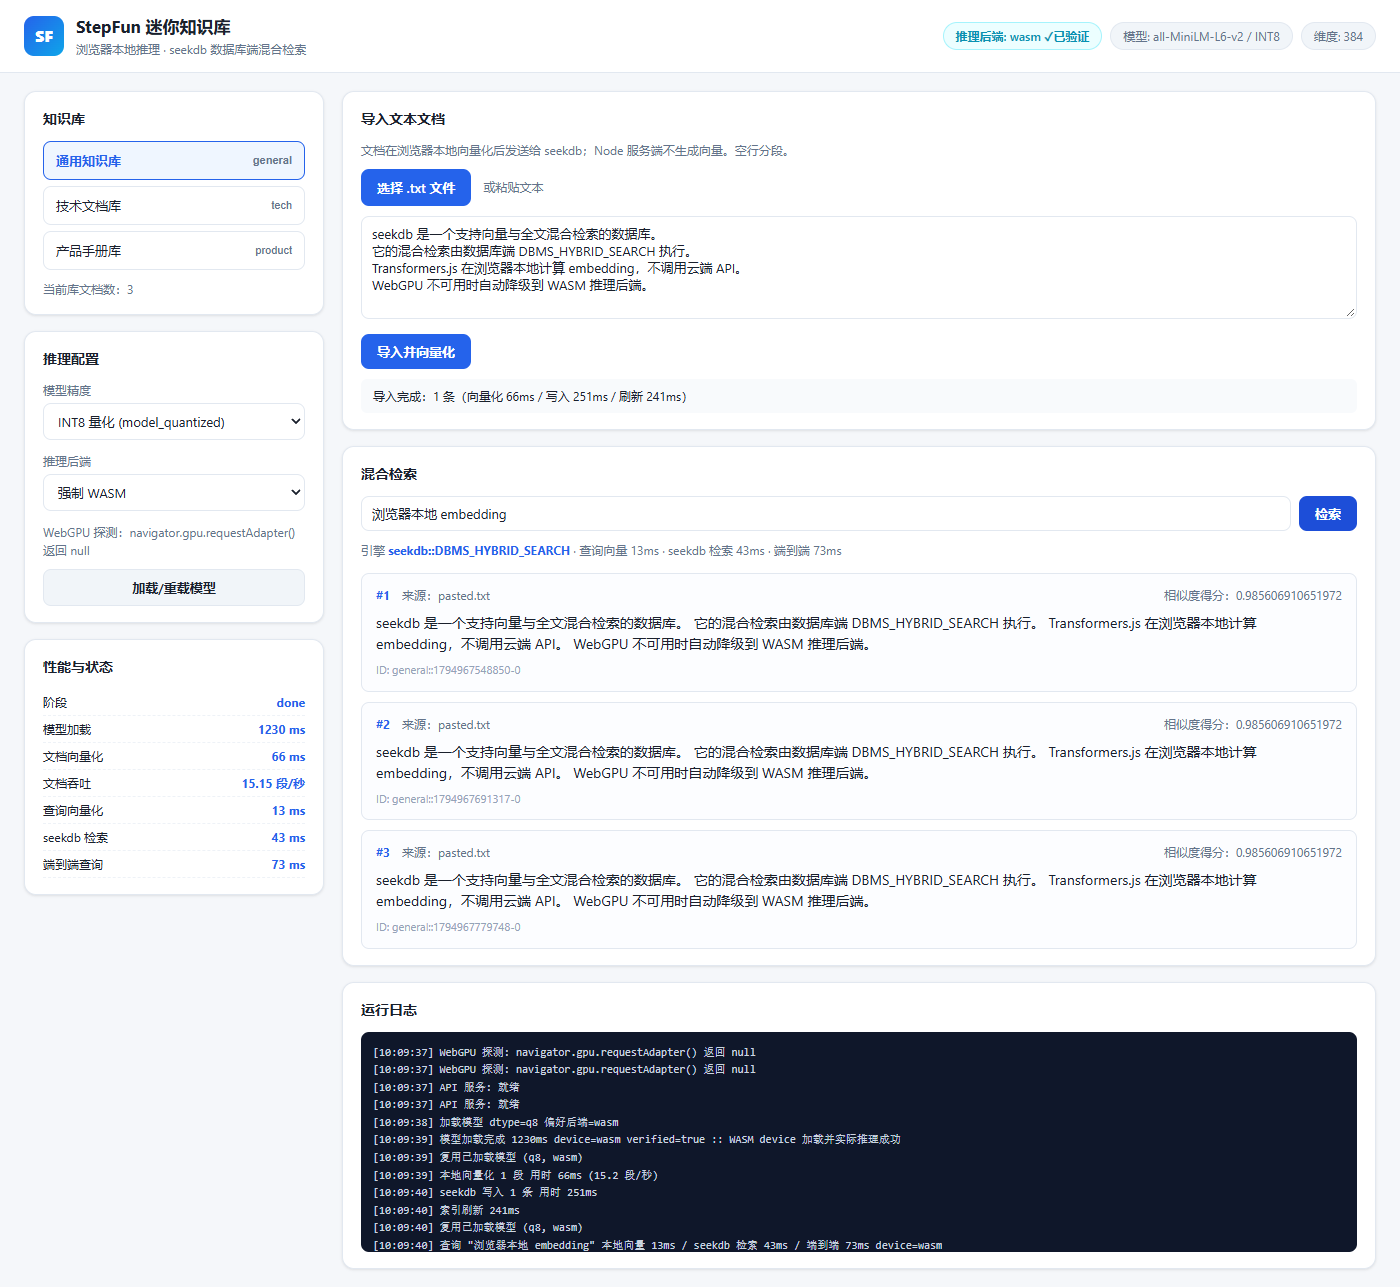
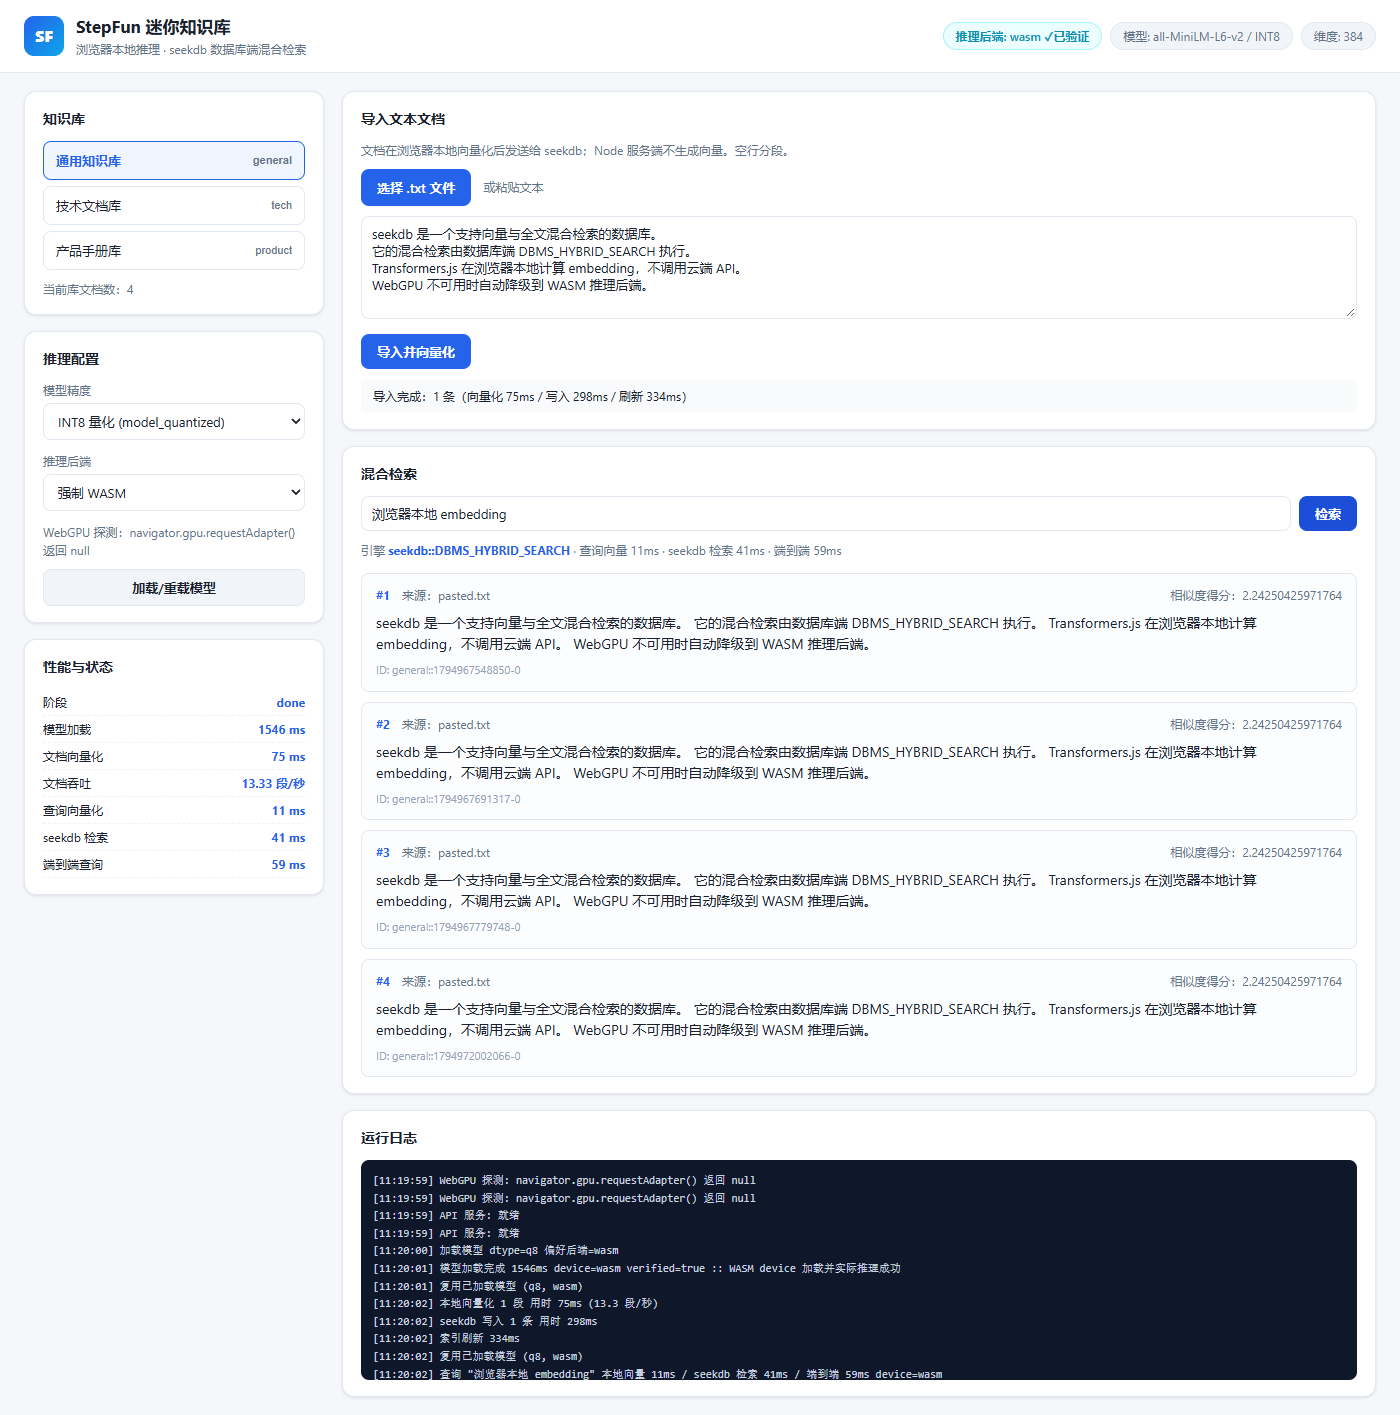
docs(stepfun): add official submission checklist and fix verification issues

diff --git a/stepfun/SUBMISSION.md b/stepfun/SUBMISSION.md
@@ -1,0 +1,118 @@
+# SUBMISSION.md — 提交规范核对与材料清单
+
+> 本文件记录对官方赛题要求、提交方式与目录规范的逐项核对结果，以及本项目最终提交材料清单。
+> 所有结论均来自官方公开文档与本机 git 实测，不推测、不虚构。
+
+## 1. 官方依据（原文链接）
+
+| 文档 | 地址 |
+|---|---|
+| 阶跃星辰赛题（本赛道） | https://oceanbase.yuque.com/org-wiki-obtech-vh7w9r/hc3pio/kw9wfx4bu9pyvat9 |
+| GitHub 在大赛中的使用说明 | https://oceanbase.yuque.com/org-wiki-obtech-vh7w9r/hc3pio/qs1povt8zbza6hts |
+| 比赛仓库地址 | https://oceanbase.yuque.com/org-wiki-obtech-vh7w9r/hc3pio/brxxufkegusa86hl |
+| 官方代码仓库 | https://github.com/oceanbase/powercontext |
+| 官方基础分支 | `2026-competition-ecosystem`，HEAD `d647275c308e09b7b623f322a26f5c4e85734fb0` |
+
+赛题原文关键要求（逐字引用）：
+
+> 注意：为方便判题，请基于 https://github.com/oceanbase/powercontext/tree/2026-competition-ecosystem ，在测评平台提交时的分支/commit hash 基于此分支进行开发，相关项目资产放入对应 stepfun 目录中。在完成私有 repo 导入后，你已经获得一个同名的分支。
+
+> 提交产物：可运行的 Web 应用、完整源码和一页技术说明
+
+《GitHub 在大赛中的使用说明》关键要求：
+
+> 一定要使用私有仓库进行测试。
+> 首先你要有一个自己的 GitHub 账号……在网站右上角点击 "Import Repository"……填写导入表单……点击 "Begin import" 按钮，开始导入仓库……
+> 生成token……在参赛信息里面填写好user:token的地址……仓库确认之后，开始提交测试。
+
+《比赛仓库地址》中阶跃星辰一行：仓库 `oceanbase/powercontext`，分支 `2026-competition-ecosystem`，文件夹 `stepfun`。
+
+## 2. 提交方式结论
+
+| 核对项 | 结论 |
+|---|---|
+| 是否需要向官方仓库创建 GitHub Pull Request | **否**。官方说明要求导入自己的**私有仓库**，生成 token 后在**测评平台提交分支/commit hash**；未要求向 `oceanbase/powercontext` 提 PR。本交付严格遵守：无 remote、无 push、无 PR。 |
+| 提交目标形态 | 私有仓库导入官方仓库 → 在 `2026-competition-ecosystem` 基础上开发 → 提交分支名 / commit hash。 |
+| 资产放置位置 | 官方分支 `stepfun/` 目录（本项目顶层目录即与该目录一一对应）。 |
+| 是否需要演示视频 | **未要求**。官方「四、提交材料」仅列 4.1 可运行 Web 应用、4.2 完整源码、4.3 一页技术说明。 |
+| 是否需要截图 | **未作为硬性附件要求**。本项目仍附真实运行截图 `evidence/browser/app-wasm.png` 作为佐证。 |
+| 是否需要性能报告 | 一页技术说明中**必须**包含关键性能对比结果（3.2 与 4.3）；本项目另有原始日志 `benchmark/results.json`、`evidence/benchmark/*.json` 作为可核验附件。 |
+
+## 3. Git 基线核验（关键）
+
+本地仓库已把作品提交接到官方基础提交之上，满足「commit hash 基于此分支进行开发」：
+
+```
+d647275  chore: initialize 2026 competition ecosystem directories   ← 官方 2026-competition-ecosystem HEAD
+9f9d38c  feat(stepfun): complete mini knowledge base ...            ← 作品主提交
+7a36999  docs(stepfun): record commit history reference ...         ← 文档 SHA 回填
+```
+
+核验命令与期望结果：
+
+```bash
+cd D:/OceanBase_WorkBuddy/StepFun_2026
+git merge-base --is-ancestor d647275c308e09b7b623f322a26f5c4e85734fb0 HEAD && echo BASE_OK
+git log --oneline -4
+git remote -v        # 期望：无输出
+```
+
+官方占位文件 `dify/`、`gaode/`、`minimax/`、`qoder/` 均原样保留（含 `.gitkeep`），**未修改 Codex / MiniMax 或其他赛道资产**；`stepfun/.gitkeep` 已被真实作品内容替代。
+
+## 4. 官方必做要求逐项对照
+
+| 官方条目 | 本项目实现 | 证据 | 状态 |
+|---|---|---|---|
+| 2.1 导入文本文档 → 本地向量化 → 写入 seekdb → 混合检索 → 排序结果与原文 | React UI 导入/进度/结果/原文来源；`embedding.ts` 本地编码；`db.js` 写入；`hybridSearch()` 检索 | `frontend/src/App.tsx`、`evidence/browser/browser-test.log`、`evidence/browser/app-wasm.png` | 通过 |
+| 2.2-1 浏览器本地执行 embedding（文档+查询） | Transformers.js 4.3.2，模型与 ORT WASM 均本地加载，`env.allowRemoteModels=false` | `frontend/src/embedding.ts`、`evidence/browser/browser-test.log`（`EXTERNAL_REQUEST_COUNT 0`） | 通过 |
+| 2.2-2 开源模型，注明来源与版本 | `Xenova/all-MiniLM-L6-v2`，Apache-2.0，384 维，Repo SHA `751bff37…` | `TECHNICAL_OVERVIEW.md` §2、`evidence/stage1/model_info.log` | 通过 |
+| 2.2-3 INT8/FP16 量化，体积/压缩比/质量变化 | INT8(q8) vs FP32：90,387,606 B → 22,972,370 B，压缩比 **3.935×**（−74.6%）；Recall@5 0.7083→0.6806，nDCG@5 0.7596→0.7428 如实记录 | `TECHNICAL_OVERVIEW.md` §2/§5、`benchmark/results.json` | 通过 |
+| 2.2-4 WebGPU 优先、显式配置、不支持自动降级 WASM、界面提示 | `probeWebGPU()` 真实 `requestAdapter()`；推理成功才标记已验证；UI 状态栏显示后端；本机 WebGPU 不可用，如实显示 wasm | `frontend/src/embedding.ts`、`frontend/src/App.tsx`、`TEST_REPORT.md` 未通过项 | 通过（降级路径实测；WebGPU 环境受限如实记录） |
+| 2.3-1 seekdb-js 接入，存向量/原文/ID/元数据 | seekdb 1.4.0 Embedded；`VectorIndexConfig`(384, cosine, `embeddingFunction:null`) + `FulltextIndexConfig('ik', smart)` | `backend/src/db.js`、`TECHNICAL_OVERVIEW.md` §4 | 通过 |
+| 2.3-2 混合检索由 seekdb 完成，不客户端拼接 | `collection.hybridSearch()` → `seekdb::DBMS_HYBRID_SEARCH` | `evidence/stage2_api_smoke.log`、`evidence/browser/browser-test.log` | 通过 |
+| 2.3-3 写入与索引刷新，新文档可检索 | 增量导入后 `refresh_index()` | `evidence/stage2_api_smoke.log`、`evidence/kb-isolation.log` | 通过 |
+| 2.3-4 增量写入、集合/会话状态正确 | 知识库 A/B 隔离 + 切换恢复 | `tests/kb-isolation.test.mjs`、`evidence/kb-isolation.log`（11/11） | 通过 |
+| 2.4 基础性能优化与优化前后实测 | 三配置基准（FP32/WASM、INT8/WASM、INT8 降级），5 次重复中位数，分阶段计时 | `tests/run-benchmark.mjs`、`benchmark/results.json`、`evidence/benchmark/*.json` | 通过 |
+| 2.5 Chrome/Edge 可运行 | Chrome（Playwright 1.65.1 headless）实测；Edge 已安装 | `evidence/browser/browser-test.log` | 通过 |
+| 2.5 禁止云端推理 API / 服务端预计算回放 | 外部请求数 0；Node 只接收浏览器算好的向量 | `evidence/browser/browser-test.log`、`frontend/src/api.ts` | 通过 |
+| 2.5 存储与检索只用 seekdb | 无其他数据库/客户端内存检索 | `backend/src/db.js` | 通过 |
+| 3.2 固定条件、压缩比公式、Recall@K/nDCG@K、分阶段计时、首次/预热区分、重复取中位数、降级路径验证 | 全部按要求记录，含未改善/下降项 | `TECHNICAL_OVERVIEW.md` §5、`benchmark/results.json` | 通过 |
+| 4.1 可运行 Web 应用 + 启动说明 + 后端显示 | `README.md` §6/§7；UI 显示推理后端 | `README.md`、`evidence/browser/app-wasm.png` | 通过 |
+| 4.2 完整源码、依赖配置、模型获取/量化步骤、表结构与索引配置、复现数据 | 全部随仓库提供 | `README.md` §3–§5、`TECHNICAL_OVERVIEW.md` §4、`benchmark/dataset.mjs` | 通过 |
+| 4.3 一页技术说明（模型量化/端侧运行/seekdb/状态与优化） | 单文件覆盖四方面 | `TECHNICAL_OVERVIEW.md` | 通过 |
+
+## 5. 最终提交材料清单
+
+**必交（官方 4.1–4.3）**
+
+- `stepfun/frontend/`、`stepfun/backend/`、`stepfun/package.json` 等：可运行 Web 应用与完整源码
+- `stepfun/frontend/public/models/`：本地 ONNX 模型（FP32 + INT8），clone 后离线可运行
+- `stepfun/frontend/public/ort/`：本地 ONNX Runtime WASM，避免 CDN（满足"禁止云端"）
+- `stepfun/README.md`：依赖、安装、seekdb 启动、完整启动、测试、重置、已知限制
+- `stepfun/TECHNICAL_OVERVIEW.md`：一页技术说明
+- `stepfun/SUBMISSION.md`：本核对清单
+
+**附加证据（官方允许"技术说明之外可附测试日志和详细复现步骤"）**
+
+- `stepfun/TEST_REPORT.md`：10 项测试的命令/退出码/环境/结果，含未通过项
+- `stepfun/PROGRESS.md`：10 阶段真实进度
+- `stepfun/evidence/`：stage1 环境/模型/seekdb 探测、API 冒烟、浏览器测试、隔离测试、复现检查日志，及 `browser/app-wasm.png` 真实截图
+- `stepfun/evidence/benchmark/*.json` + `stepfun/benchmark/results.json`：原始性能数据与中位数
+- `stepfun/backend/evidence/`：服务端 seekdb 操作与心跳日志
+- `stepfun/scripts/verify-fresh.mjs`：干净环境复现检查（30/30）
+
+## 6. 已知限制（如实，不影响提交完整性）
+
+- WebGPU 在本机 headless Chrome 中 `navigator.gpu.requestAdapter()` 返回 null，真实 WebGPU 路径未能验证；应用已实现并实测 WASM 降级，UI 如实显示后端。
+- seekdb 原生 addon 需动态 import、日志写文件、低频心跳保持稳定（已固化在代码中，见 README §10）。
+- INT8 的 Recall@5 略低于 FP32，已如实报告，未声称质量提升。
+
+## 7. 提交前自检
+
+```bash
+cd D:/OceanBase_WorkBuddy/StepFun_2026
+git status --short --branch     # 期望：工作区干净
+node stepfun/scripts/verify-fresh.mjs   # 期望：30/30 PASS
+```
+
+**本交付未执行任何远程仓库推送，未创建任何 Pull Request。**

diff --git a/stepfun/PROGRESS.md b/stepfun/PROGRESS.md
@@ -247,3 +247,28 @@ SUMMARY pass=6 fail=0
 ### 当前 Git 提交
 - 分支：`competition/stepfun-submission`（本地）
 - Commit SHA：见 `git log -1 --format=%H`（本交付含 2 个提交：主提交 + 文档 SHA 回填）
+
+---
+
+## 阶段 11：官方提交规范核对与 Git 基线修复
+
+**状态：已完成**  
+**时间：2026-11-18 11:12 – 11:25 GMT+8**
+
+### 官方要求核对结果（真实查阅）
+- 赛题文档（语雀「阶跃星辰」）：要求基于 `powercontext` 的 `2026-competition-ecosystem` 分支开发，**在测评平台提交分支/commit hash**，资产放入对应 `stepfun/` 目录；提交产物为「可运行的 Web 应用、完整源码和一页技术说明」，总分 20。
+- 《GitHub 在大赛中的使用说明》：使用自己的**私有仓库 Import Repository** 导入官方仓库，生成 token 填入参赛信息，再在测评平台提交测试；**未要求向官方仓库提 Pull Request**。
+- 《比赛仓库地址》：阶跃星辰对应 `powercontext` / `2026-competition-ecosystem` / `stepfun` 目录。
+- 官方分支根目录实际只有 `dify/ gaode/ minimax/ qoder/ stepfun/` 五个仅含 `.gitkeep` 的占位目录，HEAD=`d647275c308e09b7b623f322a26f5c4e85734fb0`。
+- 附件：演示视频**未要求**；截图/性能报告未列为硬性附件，但技术说明必须含关键性能对比结果。本项目已附真实截图与原始性能日志。
+
+### 发现的阻塞问题与修复
+- **问题**：此前本地仓库 `git init` 后首个提交是根提交（`0c1d402` 无父提交），官方基础提交 `d647275` 不在历史中，不满足「commit hash 基于此分支开发」。
+- **修复**：从只读参考克隆 `D:/OceanBase_WorkBuddy/_reference_powercontext` 抓取官方提交对象（未联网推送），以 `d647275` 为基线 cherry-pick 两个作品提交，得到新链：
+  `d647275 → 9f9d38c（主提交）→ 7a36999（文档）`；删除 `stepfun/.gitkeep` 占位并加入 `SUBMISSION.md`。
+- **验证**：`git merge-base --is-ancestor d647275 HEAD` 返回 0；`git remote -v` 无输出；未创建 PR、未推送。
+- 官方其他赛道占位目录 `dify/ gaode/ minimax/ qoder/` 原样保留，未修改 MiniMax/Codex 既有资产。
+
+### 本阶段新增文件
+- `SUBMISSION.md`：官方要求逐项对照、提交方式结论、git 基线核验、最终材料清单、提交前自检。
+

diff --git a/stepfun/TEST_REPORT.md b/stepfun/TEST_REPORT.md
@@ -16,6 +16,14 @@
 | 8 | 三配置性能与质量 | `node tests/run-benchmark.mjs` | 0 | A/B/C 全部跑通，5 次中位数 | `benchmark/results.json`、`evidence/benchmark/*.json` |
 | 9 | 干净环境复现检查 | `node scripts/verify-fresh.mjs` | 0 | 30/30 PASS | `evidence/verify-fresh.log` |
 | 10 | 前端构建 | `npm run build` (frontend) | 0 | TS 无错误，Vite 构建成功 | 终端输出（见 PROGRESS.md） |
+| 11 | 官方提交规范与 git 基线 | 查阅官方语雀文档；`git merge-base --is-ancestor d647275c… HEAD` | 0 | 无需 PR；提交需基于官方分支；本地历史已接入 `d647275` | `SUBMISSION.md` §1–§3、`PROGRESS.md` 阶段 11 |
+| 12 | 浏览器测试复测（代理修复后） | `node tests/browser-embedding.spec.mjs` | 0 | 6/6 PASS；导入完成（向量化 75ms/写入 298ms/刷新 334ms）；检索 4 条；外部请求 0 | `evidence/browser/browser-test.log`、`evidence/browser/app-wasm.png` |
+
+## 提交前修复记录
+
+- **Vite `/api` 代理失效**：git 分支切换期间 `vite.config.ts` 被临时删除又重建，正在运行的 Vite 未重载代理配置，`/api/*` 返回 index.html，浏览器导入报 `Unexpected end of JSON input`。重启前端开发服务器后代理恢复（`curl /api/kb/general/count` 返回 JSON），浏览器测试 6/6 通过。README §10 增加排查说明。
+- **测试脚本超时参数**：`tests/browser-embedding.spec.mjs` 两处 `page.waitForFunction(fn, {timeout})` 把 options 误传成 arg，实际使用默认 30s；已改为 `page.waitForFunction(fn, null, {timeout:180000})`，与 `run-benchmark.mjs` 写法一致。
+- 复测同批执行：`kb-isolation` 11/11、`api-smoke` 10/10、`verify-fresh` 30/30 均通过。
 
 ## 未通过/受限项（如实记录）
 

diff --git a/stepfun/README.md b/stepfun/README.md
@@ -155,3 +155,4 @@ npm run init && npm start
    - 这些已固化在 `backend/src/server.js` 与 `db.js` 中
 3. **npm 安装**：seekdb 的 peer 依赖用 pnpm `workspace:*` 协议，`.npmrc` 设置 `legacy-peer-deps=true` 绕过（本项目不需要 default-embed，向量在浏览器生成）。
 4. **模型仓库**：`hf-mirror.com` 镜像可用，`huggingface.co` 主站在本机不可达；模型已随项目下载，运行时零外网请求。
+5. **Vite `/api` 代理**：若浏览器导入报 `Unexpected end of JSON input`，说明 `/api/*` 未代理到后端而返回了 index.html（常见于 `vite.config.ts` 被改动后开发服务器未重载）。停止前端进程并重新执行 `npm run dev`，再用 `curl http://127.0.0.1:5173/api/health` 确认返回 JSON 即可。
